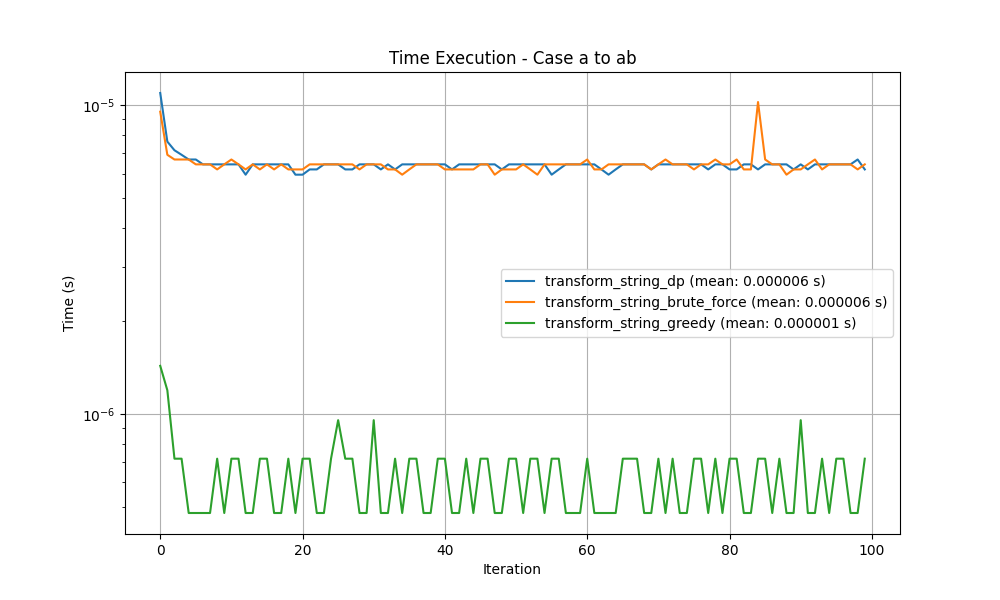
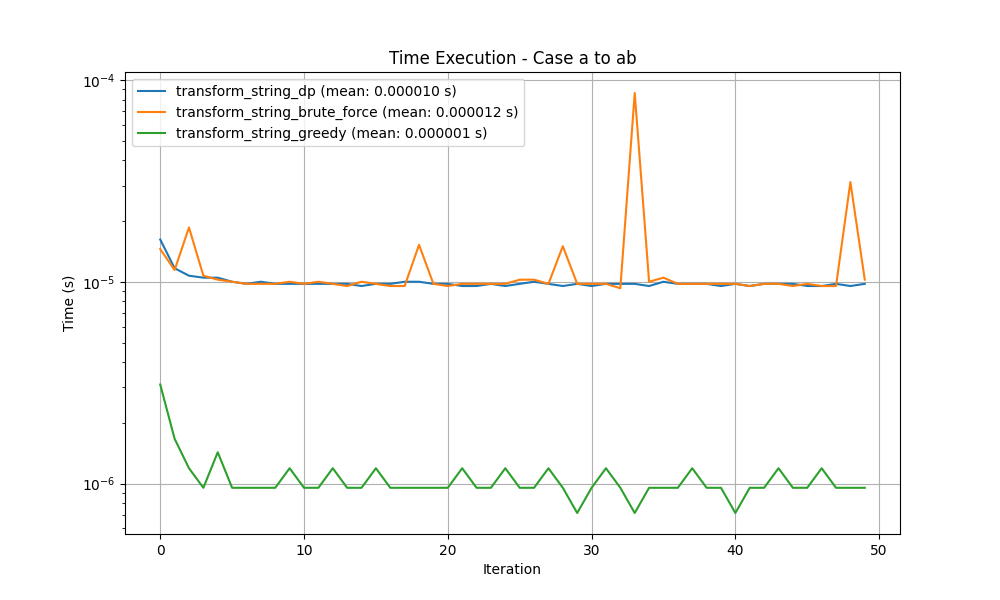
Add argument handling for benchmark script and refine execution flow

diff --git a/test/test_benchmark.py b/test/test_benchmark.py
@@ -1,3 +1,4 @@
+import sys
 import time
 import numpy as np
 import matplotlib.pyplot as plt
@@ -148,7 +149,22 @@ class Benchmark:
 
 
 if __name__ == '__main__':
-    benchmark = Benchmark(num_iterations=100, prefix='smart_terminal_')
+    args = sys.argv
+    prefix = ''
+    
+    if len(args) == 1:
+        print('Please provide smart_terminal or public_auction as argument')
+        sys.exit(1)
+
+    if  args[1] not in ['smart_terminal', 'public_auction']:
+        print('Please provide smart_terminal or public_auction as argument')
+        sys.exit(1)
+    
+    print(f'Running benchmark for {args[1]}')
+
+    prefix = args[1] + '_'
+        
+    benchmark = Benchmark(num_iterations=50, prefix=prefix)
     cost = {'advance': 1, 'delete': 2, 'replace': 3, 'insert': 2, 'kill': 1}
     A = 1000
     B = 100
@@ -213,20 +229,21 @@ if __name__ == '__main__':
         }
     ]
 
-    '''
-    #TODO: Define theoretical complexity for each function
-    for case in public_auction_cases:
-        benchmark.add_function(auction_dp, case)
-        benchmark.add_function(auction_brute_force, case)
-        benchmark.add_function(auction_greedy, case)
-    '''
-
-    for case in string_transform_cases:
-        m = len(case['args'][0])
-        n = len(case['args'][1])
-        benchmark.add_function(transform_string_dp, case,theoretical_complexity=m * n)
-        benchmark.add_function(transform_string_brute_force, case, theoretical_complexity=4 ** min(m,n))
-        benchmark.add_function(transform_string_greedy, case, theoretical_complexity=m + n)
+    if prefix == 'smart_terminal_':
+            for case in string_transform_cases:
+                m = len(case['args'][0])
+                n = len(case['args'][1])
+                benchmark.add_function(transform_string_dp, case,theoretical_complexity=m * n)
+                benchmark.add_function(transform_string_brute_force, case, theoretical_complexity=4 ** min(m,n))
+                benchmark.add_function(transform_string_greedy, case, theoretical_complexity=m + n)
+    else:
+        '''
+        #TODO: Define theoretical complexity for each function
+        for case in public_auction_cases:
+            benchmark.add_function(auction_dp, case)
+            benchmark.add_function(auction_brute_force, case)
+            benchmark.add_function(auction_greedy, case)
+        '''
 
     benchmark.plot_results_per_case()
     benchmark.plot_average_results()
